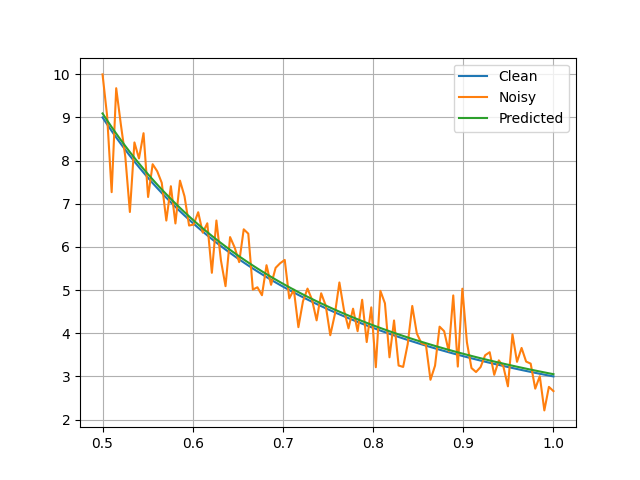
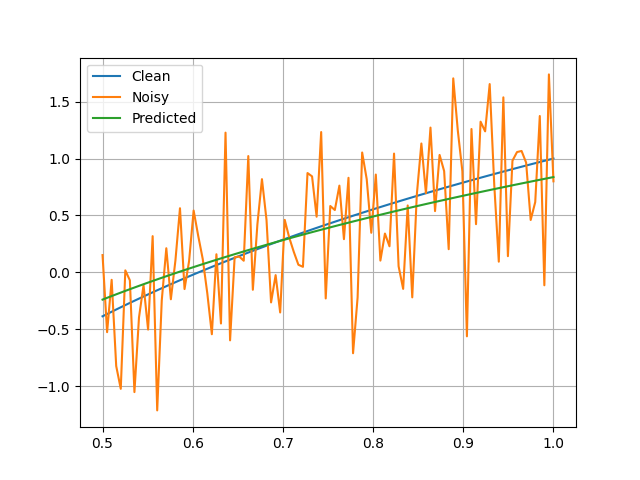
with log scale

diff --git a/extrapolation/test.py b/extrapolation/test.py
@@ -1,3 +1,4 @@
+# from cmath import log
 import matplotlib.pyplot as plt
 import numpy as np
 from typing import List
@@ -13,7 +14,7 @@ class Inverse_sq_reg():
 		"""
 		Creates the error vector
 		"""
-		self.y_hat = self.a / self.x**2 + self.b
+		self.y_hat = self.a * np.log(self.x) + self.b
 		self.errors = self.y - self.y_hat
 
 	def loss(self):
@@ -26,7 +27,7 @@ class Inverse_sq_reg():
 		"""
 		Calculates the gradient of a and returns it
 		"""
-		temp1 = (self.errors / (self.x ** 2)).sum()
+		temp1 = (self.errors*np.log(self.x)).sum()
 		return -2 * temp1 / self.n
 
 	def gradient_b(self):
@@ -66,17 +67,17 @@ class Inverse_sq_reg():
 
 	def predict(self, x: np.array) -> None:
 
-		return (self.a / x ** 2) + self.b
+		return (self.a * np.log(x)) + self.b
 
 def main():
-	# Generate n = 100 training points (x, y). y = a/x**2 + b, where a = 2 and b = 1, add some noise to it
+	# Generate n = 100 training points (x, y). y = a*logx + b, where a = 2 and b = 1, add some noise to it
 	n = 100
 	start = 0.5
 	end = 1
 	x = np.linspace(start, end, n)
 	a = 2
 	b = 1
-	y = a / x**2 + b
+	y = a*np.log(x) + b
 	y_t = y + np.random.normal(0, 0.5, n)
 	# Train the data 
 	model = Inverse_sq_reg()
